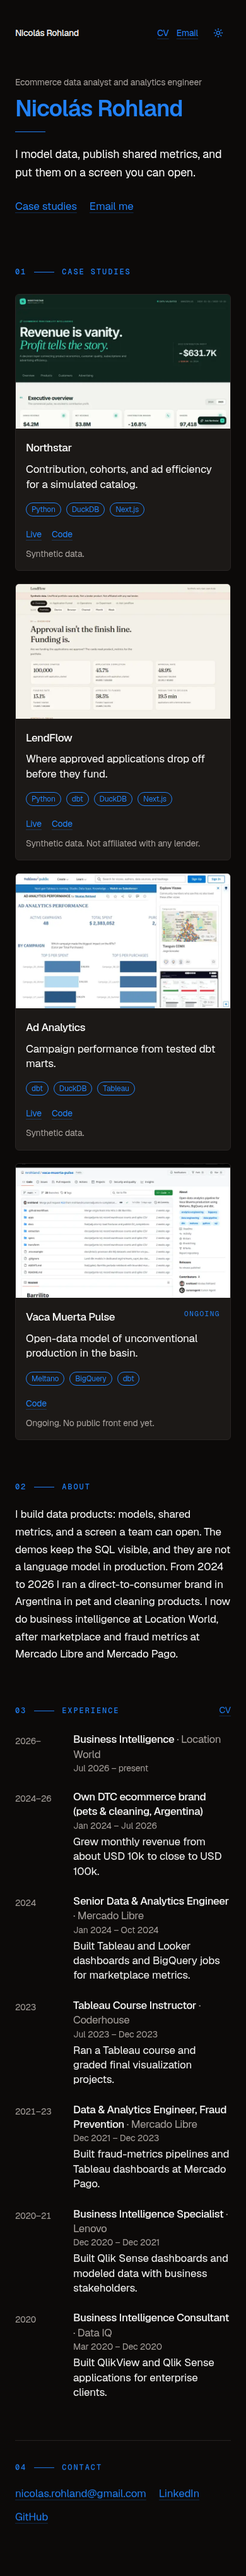
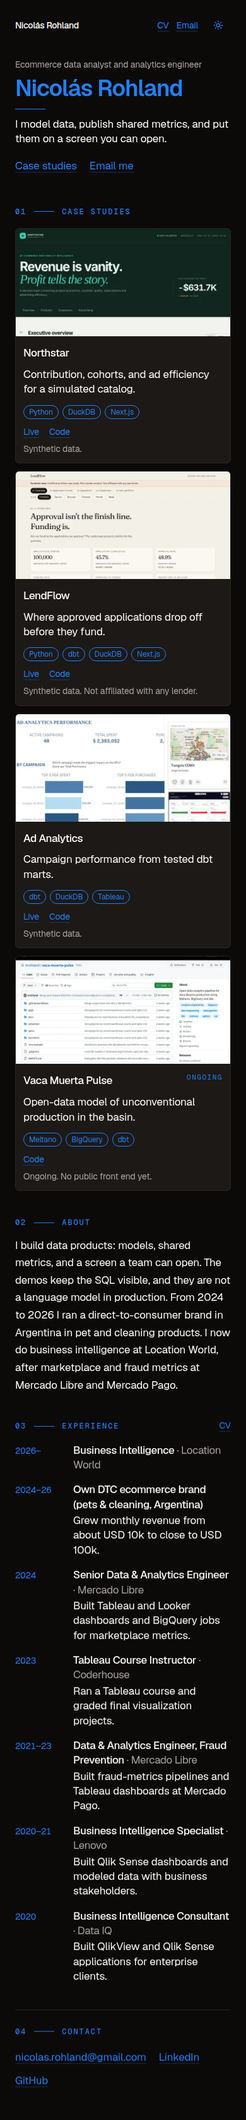
Tighten spacing and recrop the ad analytics image.
Keep the year column as the only date, shorten cards and section gaps, and leave stack chips without a hover fill.

diff --git a/src/app/page.tsx b/src/app/page.tsx
@@ -34,16 +34,16 @@ function SectionLabel({
 
 export default function Page() {
   return (
-    <main id="content" className="mx-auto max-w-3xl px-6 pb-20">
+    <main id="content" className="mx-auto max-w-3xl px-6 pb-12">
       <div id="top" className="scroll-mt-8">
-        <section id="hero" className="fade-in-up scroll-mt-8 pb-4 pt-12 sm:pt-16">
+        <section id="hero" className="fade-in-up scroll-mt-8 pb-2 pt-8 sm:pt-10">
           <p className="text-sm text-muted-foreground">{profile.role}</p>
-          <h1 className="mt-3 text-4xl font-semibold tracking-tight text-accent sm:text-5xl sm:leading-none">
+          <h1 className="mt-2 text-4xl font-semibold tracking-tight text-accent sm:text-5xl sm:leading-none">
             {profile.name}
           </h1>
-          <span aria-hidden className="mt-4 block h-px w-12 bg-accent" />
-          <p className="mt-5 max-w-xl text-lg leading-relaxed">{profile.lead}</p>
-          <div className="mt-6 flex flex-wrap gap-x-5 gap-y-2 text-[17px]">
+          <span aria-hidden className="mt-3 block h-px w-12 bg-accent" />
+          <p className="mt-3 max-w-xl text-[17px] leading-snug">{profile.lead}</p>
+          <div className="mt-4 flex flex-wrap gap-x-5 gap-y-2 text-[17px]">
             <a className={textLink} href="#case-studies">
               Case studies
             </a>
@@ -55,13 +55,13 @@ export default function Page() {
 
         <section
           aria-labelledby="case-studies"
-          className="fade-in-up scroll-mt-8 pt-16"
+          className="fade-in-up scroll-mt-8 pt-10"
           style={{ animationDelay: "40ms" }}
         >
           <SectionLabel index="01" id="case-studies">
             Case studies
           </SectionLabel>
-          <div className="mt-6 grid gap-5 sm:grid-cols-2">
+          <div className="mt-4 grid gap-3 sm:grid-cols-2">
             {caseStudies.map((study) => (
               <article
                 key={study.title}
@@ -71,10 +71,10 @@ export default function Page() {
                   src={study.image}
                   alt={study.imageAlt}
                   width={720}
-                  height={450}
-                  className="aspect-[16/10] w-full object-cover"
+                  height={360}
+                  className="aspect-[2/1] w-full object-cover object-top"
                 />
-                <div className="flex flex-1 flex-col p-4">
+                <div className="flex flex-1 flex-col p-3">
                   <div className="flex items-start justify-between gap-3">
                     <h3 className="font-medium tracking-tight">{study.title}</h3>
                     {study.status ? (
@@ -84,16 +84,16 @@ export default function Page() {
                     ) : null}
                   </div>
                   <p className="mt-2 text-[17px] leading-snug">{study.summary}</p>
-                  <ul className="mt-3 flex flex-wrap gap-2">
+                  <ul className="mt-2 flex flex-wrap gap-1.5">
                     {study.stack.map((item) => (
                       <li key={item}>
-                        <span className="inline-block rounded-full border border-accent px-2 py-0.5 text-xs text-accent hover:bg-accent hover:text-on-accent">
+                        <span className="inline-block rounded-full border border-accent px-2 py-0.5 text-xs text-accent">
                           {item}
                         </span>
                       </li>
                     ))}
                   </ul>
-                  <div className="mt-4 flex flex-wrap gap-x-4 gap-y-2 text-sm">
+                  <div className="mt-2 flex flex-wrap gap-x-4 gap-y-2 text-sm">
                     {study.liveUrl ? (
                       <a
                         className={textLink}
@@ -117,7 +117,7 @@ export default function Page() {
                       </a>
                     ) : null}
                   </div>
-                  <p className="mt-3 text-sm leading-snug text-muted-foreground">{study.caption}</p>
+                  <p className="mt-2 text-sm leading-snug text-muted-foreground">{study.caption}</p>
                 </div>
               </article>
             ))}
@@ -126,20 +126,20 @@ export default function Page() {
 
         <section
           aria-labelledby="about"
-          className="fade-in-up scroll-mt-8 pt-16"
+          className="fade-in-up scroll-mt-8 pt-10"
           style={{ animationDelay: "80ms" }}
         >
           <SectionLabel index="02" id="about">
             About
           </SectionLabel>
-          <p className="mt-5 max-w-2xl text-[17px] leading-relaxed">
+          <p className="mt-3 max-w-2xl text-[17px] leading-relaxed">
             {about.join(" ")}
           </p>
         </section>
 
         <section
           aria-labelledby="experience"
-          className="fade-in-up scroll-mt-8 pt-16"
+          className="fade-in-up scroll-mt-8 pt-10"
           style={{ animationDelay: "120ms" }}
         >
           <div className="flex items-baseline justify-between gap-4">
@@ -158,13 +158,13 @@ export default function Page() {
               </a>
             ) : null}
           </div>
-          <ol className="mt-6 space-y-6">
+          <ol className="mt-4 space-y-4">
             {roles.map((role) => (
               <li
-                key={`${role.dates}-${role.title}`}
+                key={`${role.years}-${role.title}`}
                 className="grid grid-cols-[4.75rem_1fr] gap-x-4 sm:grid-cols-[5.5rem_1fr]"
               >
-                <p className="pt-1 text-sm tabular-nums text-muted-foreground">{role.years}</p>
+                <p className="pt-0.5 text-sm tabular-nums text-accent">{role.years}</p>
                 <div>
                   <h3 className="font-medium leading-snug tracking-tight">
                     {role.title}
@@ -172,8 +172,7 @@ export default function Page() {
                       <span className="font-normal text-muted-foreground"> · {role.org}</span>
                     ) : null}
                   </h3>
-                  <p className="text-sm text-muted-foreground">{role.dates}</p>
-                  {role.line ? <p className="mt-1 max-w-xl leading-snug">{role.line}</p> : null}
+                  {role.line ? <p className="mt-0.5 max-w-xl leading-snug">{role.line}</p> : null}
                 </div>
               </li>
             ))}
@@ -182,7 +181,7 @@ export default function Page() {
 
         <footer
           aria-labelledby="contact"
-          className="fade-in-up mt-16 scroll-mt-8 border-t border-border pt-8"
+          className="fade-in-up mt-10 scroll-mt-8 border-t border-border pt-6"
           style={{ animationDelay: "160ms" }}
         >
           <SectionLabel index="04" id="contact">

diff --git a/src/components/header.tsx b/src/components/header.tsx
@@ -6,7 +6,7 @@ const headerLink =
 
 export function Header() {
   return (
-    <header className="mx-auto flex max-w-3xl items-center justify-between gap-4 px-6 pt-8 sm:pt-10">
+    <header className="mx-auto flex max-w-3xl items-center justify-between gap-4 px-6 pt-5 sm:pt-6">
       <a href="#top" className="text-sm font-medium tracking-tight text-foreground">
         {profile.name}
       </a>
